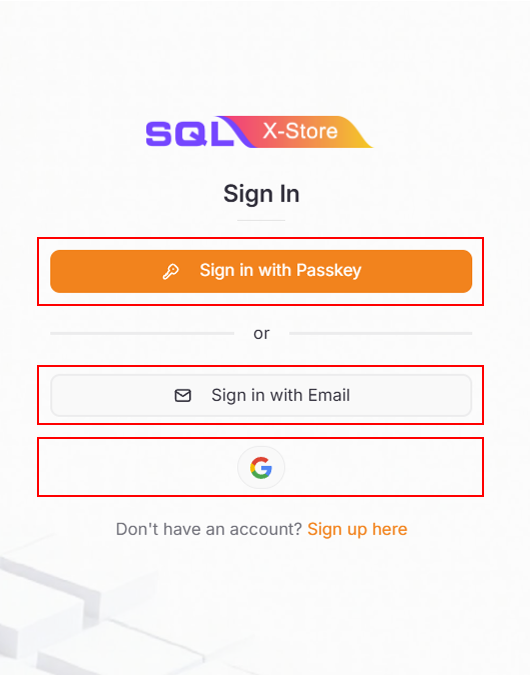
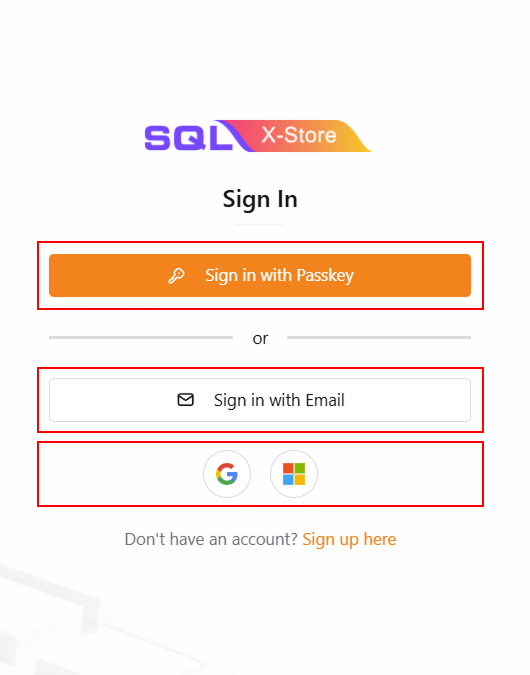
update: update getting-started documentation
- email re-verification
- microsoft sso

diff --git a/docs/integration/xstore/getting-started.md b/docs/integration/xstore/getting-started.md
@@ -13,6 +13,7 @@ If you already have an account, you can [sign in](https://x-store.sql.com.my/log
 - **Sign in with Passkey** - Use your registered passkey for quick and secure access.
 - **Sign in with Email** - Enter your email address and click the verification link to sign in.
 - **Google Single Sign-On (SSO)** - Sign in with your Google account (Gmail only). Click the Google button, select your Gmail account, and you'll be signed in automatically.
+- **Microsoft Single Sign-On (SSO)** - Sign in with your Microsoft personal accounts. Click the Microsoft button, select your Microsoft account, and you'll be signed in automatically.
 
 For detailed instructions, please refer to the [sign up section](#sign-up) below.
 
@@ -83,7 +84,7 @@ For email-based registration:
 5. Check your email inbox for a verification link
 
    :::info
-   The verification link expires in 2 minutes.
+   The verification link expires in 24 hours.
    :::
 
    ![email-action](../../../static/img/xstore/getting-started/email-action.png)
@@ -92,9 +93,17 @@ For email-based registration:
 
    ![email-link](../../../static/img/xstore/getting-started/email-link.png)
 
-7. Your account is now successfully created
+7. Your account is now successfully created.
 
    ![email-verification](../../../static/img/xstore/getting-started/email-verification.png)
+
+   :::info
+   Didn't receive the email in time, or already clicked the verification link? No problem — just come back to this page and click **I've Verified My Email** to continue.
+
+   If you can't find the email, check your spam folder first. Otherwise, use **Resend Email** to get a new link, or **Change email address** if you'd like to use a different one. You can also choose a different sign-up method instead.
+   :::
+
+   ![email-reverify](../../../static/img/xstore/getting-started/email-reverify.png)
 
 8. Once successful, you'll be redirected to the **Company List** page
 